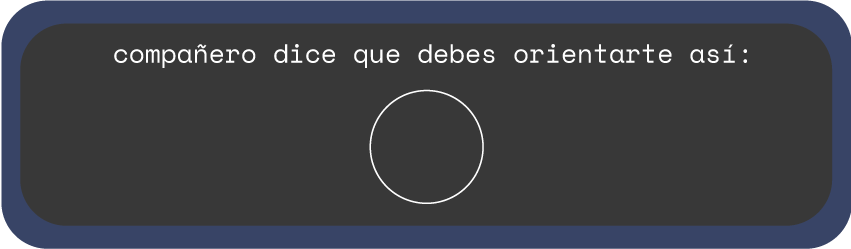
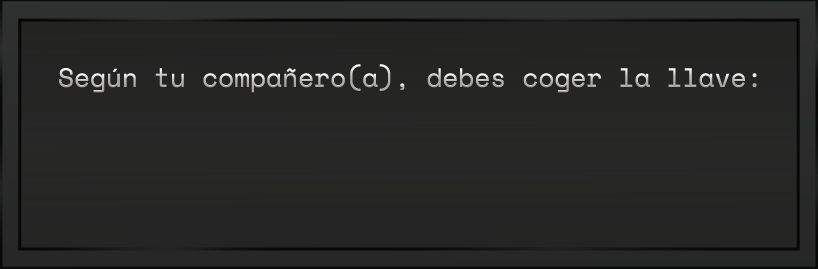
IT WORKS MADAFAKA!

diff --git a/src/pantallas/visualInterface/Menu.java b/src/pantallas/visualInterface/Menu.java
@@ -9,6 +9,7 @@ import processing.data.TableRow;
 import red.ComunicacionS;
 import red.ComunicacionC;
 import root.Logica;
+import setup.AdministradorPantalla;
 import setup.Interfaz;
 
 import java.util.Observable;
@@ -35,6 +36,7 @@ public class Menu extends Interfaz implements Observer {
     private int indiceConfianza = 0;
     private Table table;
     private TableRow newRow;
+    private PImage imaFin;
 
     public Menu(PantallaJuego pantallaJuego) {
         this.j = pantallaJuego;
@@ -65,6 +67,8 @@ public class Menu extends Interfaz implements Observer {
 
         esperando = app.loadImage("../data/pantallaJuego/esperando_conexion.png");
 
+
+        imaFin = app.loadImage("../data/pantallaJuego/final.png");
         loadTable();
     }
 
@@ -95,8 +99,6 @@ public class Menu extends Interfaz implements Observer {
         switch (pantalla) {
             case -1:
                 app.image(esperando, 0, 0);
-
-
                 if (Logica.getTipoJ() == 1) {
                     ComunicacionS.getInstance().enviar("ready");
                 }
@@ -104,7 +106,8 @@ public class Menu extends Interfaz implements Observer {
                 break;
 
             case 0:
-                app.text("¿aqui va una explicacion de la interaccion?", 800, 50);
+                //    app.text("¿aqui va una explicacion de la interaccion?", 800, 50);
+                pantalla++;
                 break;
 
             case 1:
@@ -123,7 +126,7 @@ public class Menu extends Interfaz implements Observer {
                 break;
 
             case 4:
-                app.text("esperando a que llegue", 800, 50);
+                //      app.text("esperando a que llegue", 800, 50);
                 if (j.isLlaveCogida()) pantalla++;
                 break;
 
@@ -167,7 +170,9 @@ public class Menu extends Interfaz implements Observer {
 
             //pintar Barras de confianza
             case 7:
-                app.text("se acabo todo", 50, 50);
+                app.imageMode(app.CORNER);
+                app.image(imaFin, 0, 0);
+
                 break;
 
             case 8:
@@ -206,8 +211,11 @@ public class Menu extends Interfaz implements Observer {
     }
 
     private void pintarRecomendacion() {
+        System.out.println(app.mouseX + "     " + app.mouseY);
+
+        app.fill(0, 30);
         app.imageMode(app.CENTER);
-        app.image(d2, app.width / 2, 150);
+        app.image(d2, 915, 140);
 
         app.ellipse((app.width / 2), 150 + 23, 110, 110);
         app.image(Info.imasLlavesMenu[Info.getInstance().datossLlavesMenu.get(j.getRondaActual())[decisionRecomendado]], (app.width / 2), 150 + 23);
@@ -221,7 +229,8 @@ public class Menu extends Interfaz implements Observer {
      */
     public void elegirRecomendacion() {
         app.noStroke();
-        app.image(dUno, 0, 0);
+        app.image(dUno, 543, 437);
+
         for (int i = 0; i < 2; i++) {
 
             int x = 792 + (i * 336), y = 593;
@@ -280,6 +289,14 @@ public class Menu extends Interfaz implements Observer {
 
                 pantalla++;
                 j.setDecidir(true);
+
+
+                if (Logica.getTipoJ() == 0) {
+                    Info.vidaClient -= 10;
+                } else {
+                    Info.vidaServer -= 10;
+                }
+
                 break;
             }
         }
@@ -332,20 +349,17 @@ public class Menu extends Interfaz implements Observer {
             case 6:
 
 
-//                pantalla = -1;
-//                ready = false;
-//                j.setRondaActual(j.getRondaActual() + 1);
-//                j.recomendacionOtroJugador = -1;
-//                indiceConfianza = 0;
-//                j.reiniciar();
-//
-//                if (j.getRondaActual() == 4) {
-//                    pantalla = 7;
-//                }
+                if (Info.rondaActual < 3) {
+                    Info.rondaActual++;
+
+                    AdministradorPantalla.cambiarPantalla(new PantallaJuego());
+                } else {
+                    pantalla = 7;
+                }
 
                 break;
             case 7:
-
+                app.exit();
                 //  pantalla++;
                 break;
 

diff --git a/src/pantallas/PantallaJuego.java b/src/pantallas/PantallaJuego.java
@@ -15,12 +15,12 @@ import setup.AdministradorPantalla;
 import setup.Pantalla;
 
 public class PantallaJuego extends Pantalla {
-    public int energia = 80;
+    public int energia = 0;
     Jugador j;
     float angle;
     int cantidadAleatorio = 2;
     int cantidadRondas = 4;//VARIABLE INDEPENDIENTE
-    int rondaActual = 0;
+    int rondaActual = Info.rondaActual;
 
     ArrayList<Hexagon> hexagons = new ArrayList<>();
 
@@ -37,21 +37,29 @@ public class PantallaJuego extends Pantalla {
     private boolean llaveCogida = false;
     public int cuartoSeleccionado = -1;
 
+
     public boolean isLlaveCogida() {
         return llaveCogida;
     }
 
+
     public void pintaBarra() {
+        app.noStroke();
         app.imageMode(app.CORNER);
         float bufferBarra = app.map(energia, 0, 100, 0, 304);
 
         if (energia <= 20) {
             app.fill(244, 55, 55);
-        } else if (energia <= 60) {
+        }
+
+        if (energia > 20) {
             app.fill(247, 236, 52);
-        } else if (energia <= 100) {
+        }
+
+        if (energia > 80) {
             app.fill(112, 108, 61);
         }
+        app.rectMode(app.CORNER);
         app.rect(94, 67, bufferBarra, 71);
         app.image(Info.getInstance().barraVida, 0, 0);
     }
@@ -81,6 +89,13 @@ public class PantallaJuego extends Pantalla {
         j = new Jugador(hexagons.get(0).getX(), hexagons.get(0).getY());
         hexaganoSeleccionado = hexagons.get(0);
         hexaganoSeleccionado.setSelected(true);
+
+
+        if (Logica.getTipoJ() == 0) {
+            energia = Info.vidaClient;
+        } else {
+            energia = Info.vidaServer;
+        }
     }
 
     public void reiniciar() {
@@ -104,6 +119,9 @@ public class PantallaJuego extends Pantalla {
 
         pintarHexagonosFront();
         pintaBarra();
+
+        app.fill(0);
+        app.text("ronda:  " + rondaActual, 100, 400);
     }
 
 

diff --git a/src/juego/Hexagon.java b/src/juego/Hexagon.java
@@ -183,13 +183,11 @@ public class Hexagon {
 
     public void drawRecomendaciones(int turno, int recomendacion) {
         float angle = app.TWO_PI / 6;
-
-
+        
         for (int var = 0, numero = 0; var < datosHexSelected.get(tipoTunel).length; var++) {
             int i = datosHexSelected.get(tipoTunel)[var] + anguloTunel;
             if (i > 6)
                 i -= 6;
-
 
             // bloquea seleccionar las misma por la que entraste.
             if (i == ladoEntrada)
@@ -208,7 +206,7 @@ public class Hexagon {
             dHexagon(x + xVecino, y + yVecino);
             app.fill(0);
             app.image(Info.imasLlavesMenu[Info.getInstance().datossLlavesMenu.get(j.getRondaActual())[numero]], x + xVecino, y + yVecino);
-            app.text(numero, x + xVecino + 50, y + yVecino);
+            //app.text(numero, x + xVecino + 50, y + yVecino);
             numero++;
         }
     }

diff --git a/src/info/Info.java b/src/info/Info.java
@@ -9,6 +9,11 @@ public class Info {
     static PApplet app = Pantalla.app;
     private static Info info;
 
+
+    public static int vidaClient = 80;
+    public static int vidaServer = 30;
+
+    public static int rondaActual = 0;
     public static PImage PLAYER;
     public static PImage[] imasHexRandom;
     public static PImage[] imasHexDes;
@@ -35,7 +40,7 @@ public class Info {
         datossLlavesMenu.add(new int[]{1, 0});
         datossLlavesMenu.add(new int[]{0, 1});
         datossLlavesMenu.add(new int[]{1, 0});
-        respuestasCorrectas = new int[]{ 0, 1, 0, 1, 0  };
+        respuestasCorrectas = new int[]{0, 1, 0, 1, 0};
     }
 
     private Info() {
